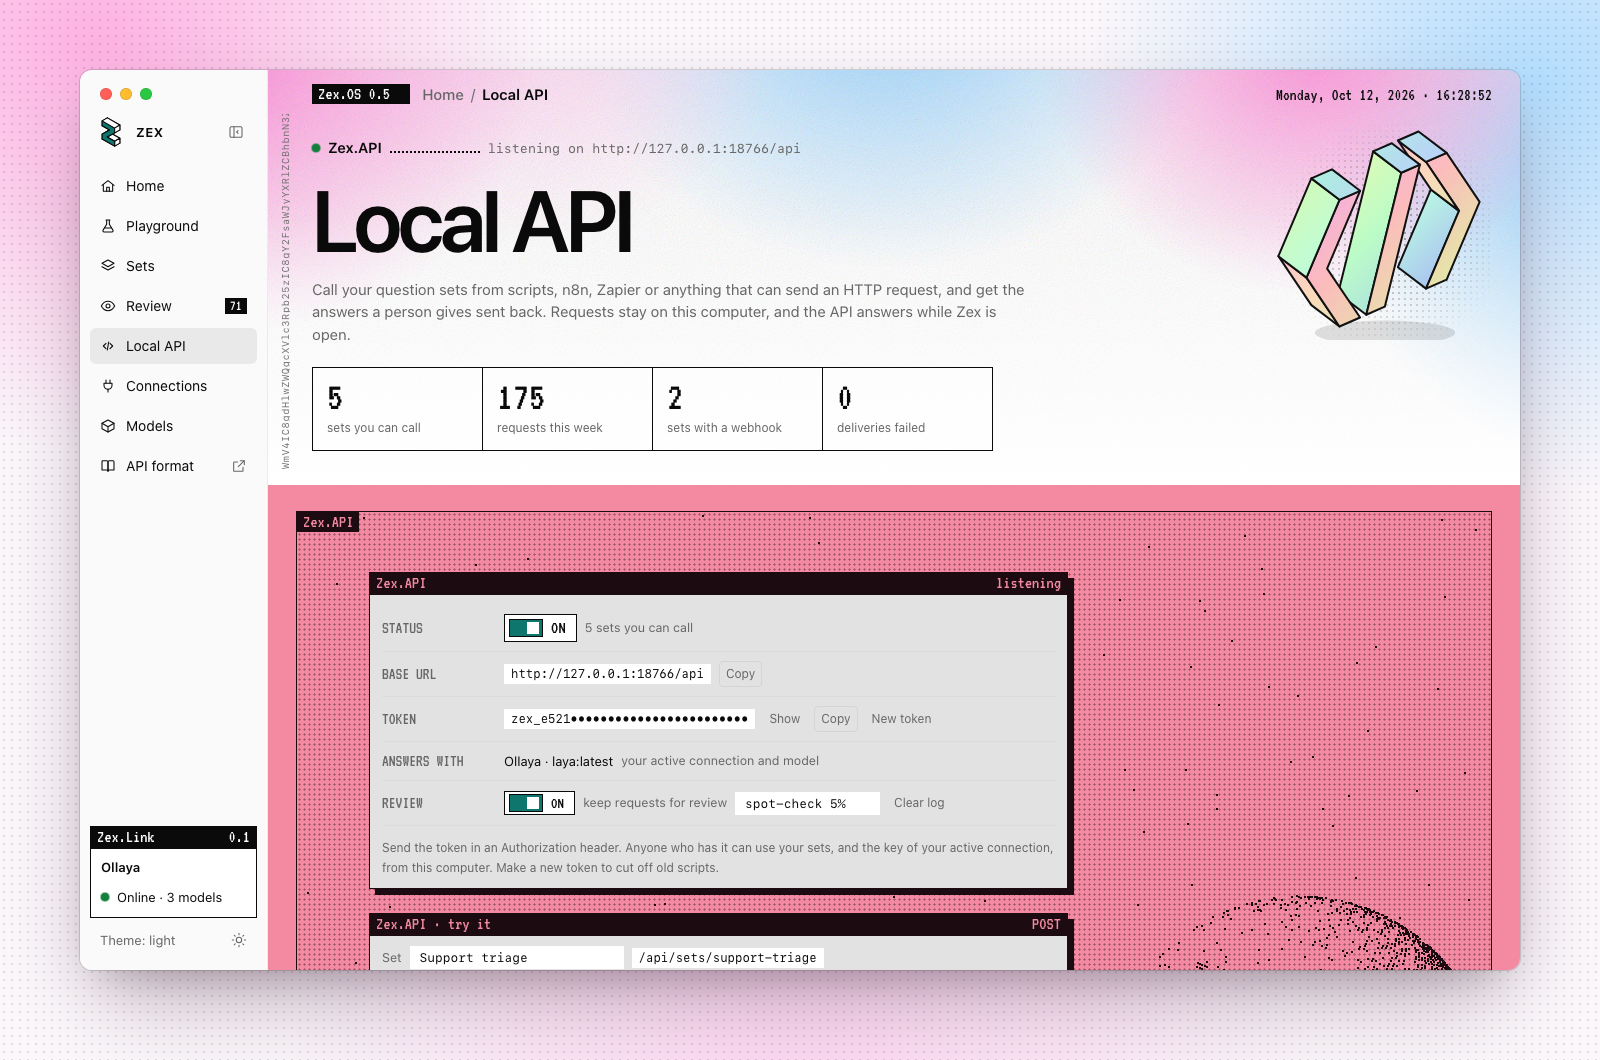
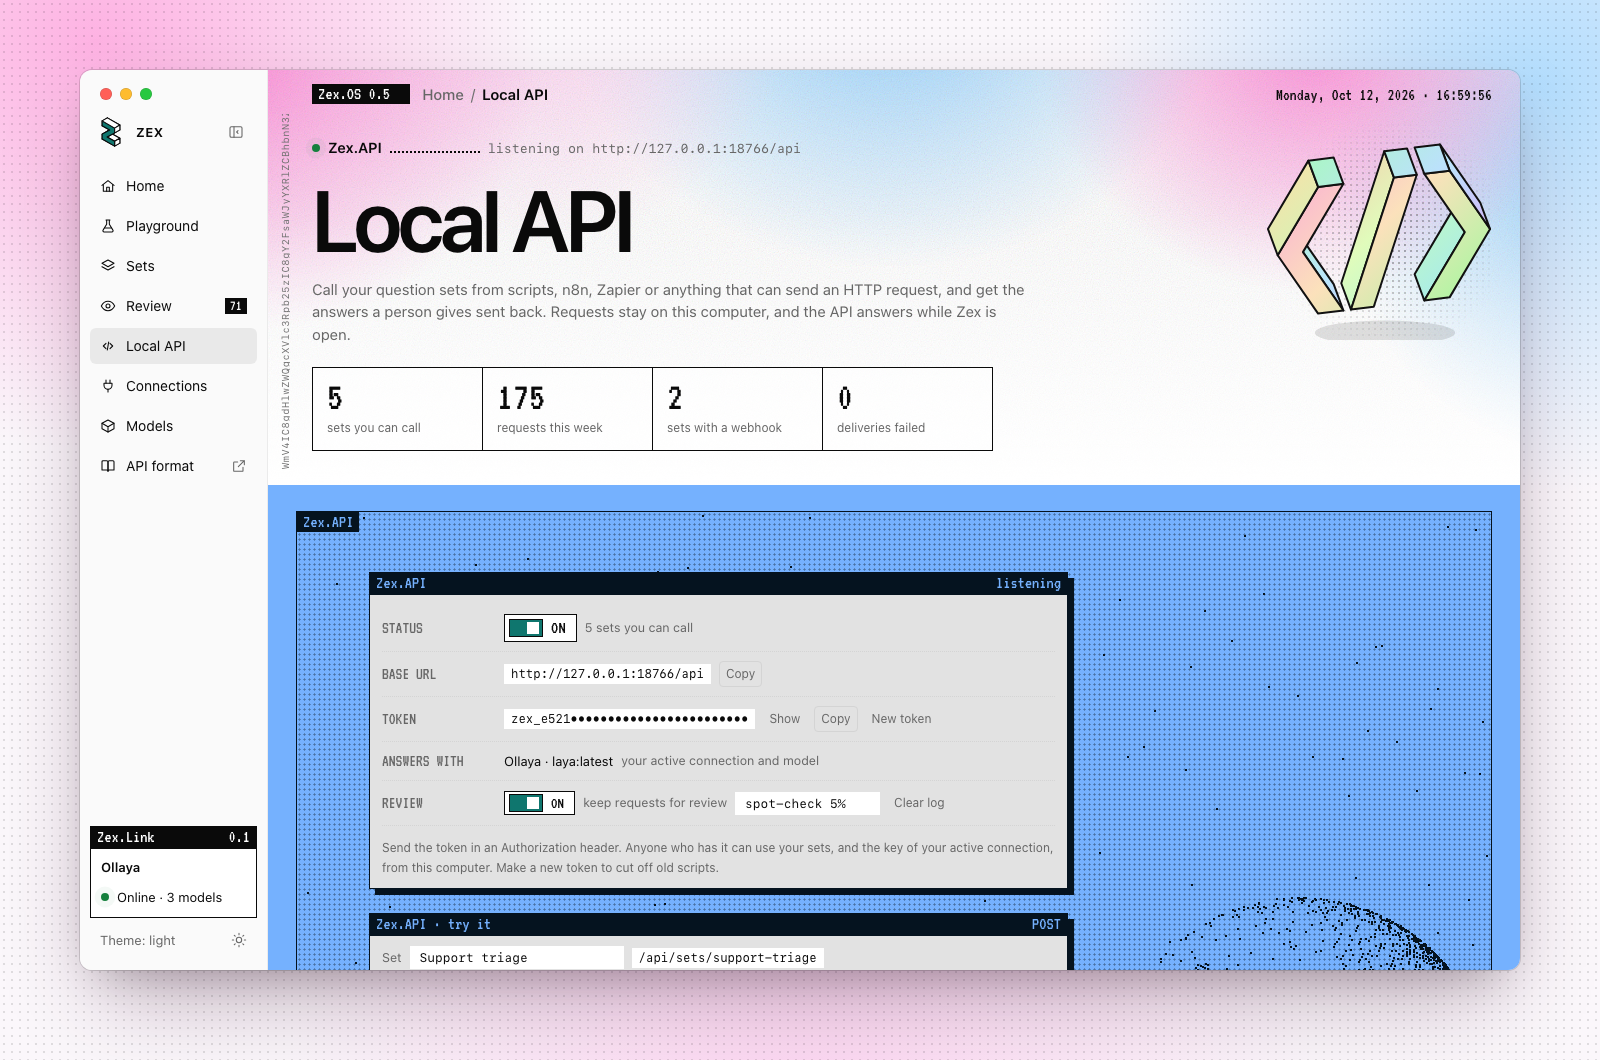
Give each page its own desk colour, in the pink's tone
Home keeps its pink. Sets is green, Review purple, Local API blue,
Connections orange and Models teal: the pink and its ink turned to each
hue at the same OKLCH lightness and chroma, so every desk sits at the same
tone. A page's dark band takes its colour for its accents.

Changed region(s): [[0.1562, 0.4358, 0.9688, 0.934], [0.7812, 0.1245, 0.9375, 0.3113]]

diff --git a/web/index.html b/web/index.html
@@ -435,6 +435,13 @@ a.server-card:hover .win-title { background: var(--accent); color: var(--on-acce
 
 /* ---------- the other pages, built like Home ---------- */
 .conns.pg { padding: 0 0 40px; }
+/* Each page has its own desk colour: Home's pink and its ink turned to another hue, at the
+   same lightness and colourfulness (OKLCH), so they all sit at the pink's tone. */
+.pg.sets { --desk: #6dc682; --desk-ink: #091507; }
+.pg.review { --desk: #c299f0; --desk-ink: #130e1f; }
+.pg.api { --desk: #75b1fe; --desk-ink: #05131f; }
+.pg.links { --desk: #ed9759; --desk-ink: #1e0c05; }
+.pg.models { --desk: #17c9b9; --desk-ink: #001611; }
 .pg-sky { min-height: 0; padding-bottom: 34px; }
 .pg-crumb { display: flex; align-items: center; gap: 7px; font-size: 15px; font-weight: 600; }
 .pg-crumb a { color: var(--text-muted); font-weight: 500; } .pg-crumb a:hover { color: var(--text); text-decoration: underline; }
@@ -462,6 +469,7 @@ a.server-card:hover .win-title { background: var(--accent); color: var(--on-acce
 .pg-band .at-title { font-size: clamp(56px, 8.5vw, 132px); }
 .pg-band-body { position: relative; }
 .pg-band .win { border-color: var(--at-line); box-shadow: none; background: var(--at-bg); }
+.hm-atlas.pg-band { --at-pink: var(--desk); --accent: var(--desk); --syn-key: var(--desk); }
 .pg-band .win-title { background: var(--at-ink); color: var(--at-bg); }
 .hm-grid { display: grid; grid-template-columns: minmax(0, 1.7fr) minmax(0, 1fr); gap: 22px; align-items: stretch; }
 .qr textarea { display: block; width: 100%; min-height: 108px; resize: vertical; border: 1px solid var(--border-strong); background: var(--surface); padding: 10px 12px; font: 15px/1.45 var(--sans); color: var(--text); outline: none; }
@@ -1392,7 +1400,7 @@ a.server-card:hover .win-title { background: var(--accent); color: var(--on-acce
   }
   let curSetId = store.get("zex.curSet", null);
   let setChipEl = null;
-  const ZEX_VERSION = "0.5.0";
+  const ZEX_VERSION = "0.5.1";
   let apiCfg = { available: false, enabled: false, token: "" };
   let apiTimer = 0;
 
@@ -3659,7 +3667,7 @@ a.server-card:hover .win-title { background: var(--accent); color: var(--on-acce
     };
     const cloud = cloudSetup ? cloudSetupWin() : null;
     cloud?.classList.add("wide");
-    return h("div", { class: "conns pg" },
+    return h("div", { class: "conns pg links" },
       pageSky({ name: "Connections", title: "Connections", mark: "link",
         lede: "Zex talks to any server that speaks the typed-decision API (POST /v1/systemone). The active one is used by the Playground, Batch and History. Compare can mix two.",
         kpis: connKpis }),

diff --git a/server.py b/server.py
@@ -44,7 +44,7 @@ ALLOWED_PATH = re.compile(r"/(v1/(systemone|decisions|models)|api/(decide|tags|p
 CATALOG_URL = os.environ.get("ZEX_CATALOG_URL") or "https://ollaya.dev/search.json"
 _catalog = {"at": 0.0, "data": b""}
 LOOPBACK = {"localhost", "127.0.0.1", "::1"}
-VERSION = "0.5.0"
+VERSION = "0.5.1"
 
 # Local model servers never go through a system HTTP proxy; remote ones may need it.
 DIRECT = urllib.request.build_opener(urllib.request.ProxyHandler({}))

diff --git a/desktop/main.go b/desktop/main.go
@@ -18,7 +18,7 @@ import (
 	"zex/web"
 )
 
-var version = "0.5.0"
+var version = "0.5.1"
 
 var errNoWebView = errors.New("no web view available")
 

diff --git a/README.md b/README.md
@@ -39,7 +39,7 @@ Chat models answer in sentences you have to parse. Typed-decision models answer 
 
 <picture>
   <source media="(prefers-color-scheme: dark)" srcset="docs/screenshots/sets-dark.png">
-  <img alt="Question sets: saved groups of typed questions, each with its route, on the pink desk under the sky band" src="docs/screenshots/sets-route.png">
+  <img alt="Question sets: saved groups of typed questions, each with its route, on a green desk under the sky band" src="docs/screenshots/sets-route.png">
 </picture>
 
 Save the questions you write as a **set**: a named, versioned group you can reuse in the Playground, in Batch, from Home and through the local API. A set can give each question its own AUTO threshold and its own route. Export a set as a `.zex.json` file to share it or keep it next to your code, and drop one onto the Sets page to import it.
